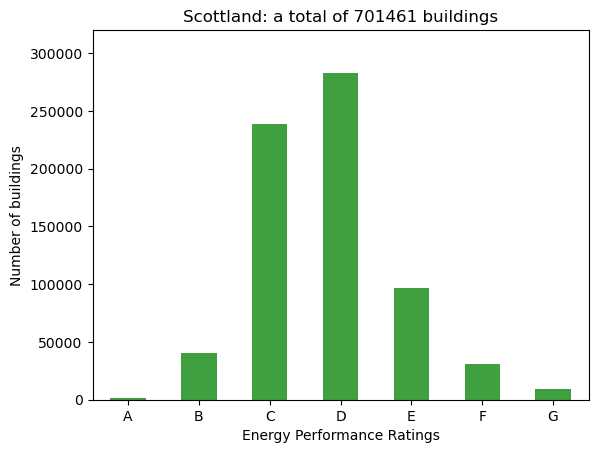
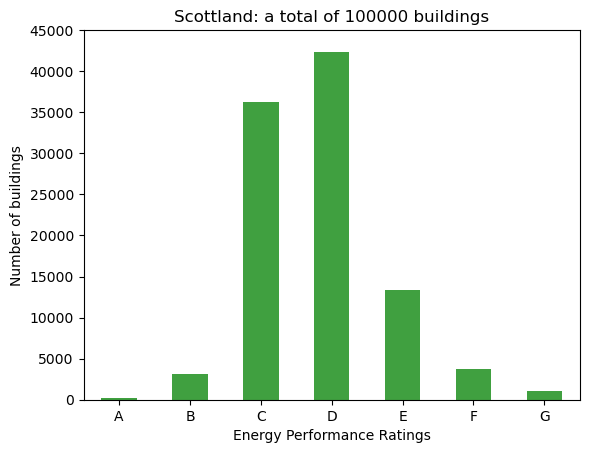
correction scottland frequency plot

diff --git a/src/at/uibk/epc/frequency/epc_frequency_scottland.py b/src/at/uibk/epc/frequency/epc_frequency_scottland.py
@@ -2,10 +2,11 @@ from frequency import getRawData
 from pymongo import MongoClient
 from frequency import epcFrequencyForCountry
 
-connectionString = 'mongodb+srv://epcuser3:pw13epc@cluster0-aivtv.mongodb.net/test?retryWrites=true&w=majority'
+#connectionString = 'mongodb+srv://epcuser3:pw13epc@cluster0-aivtv.mongodb.net/test?retryWrites=true&w=majority'
+connectionString = 'mongodb+srv://scott_1:JP3JXGuQQC9fkPiZ@cluster0.licv8.mongodb.net/EPC?retryWrites=true&w=majority'
 
-queryLimit = 701461
-Xlimit = 320000
+queryLimit = 100000
+Xlimit = 45000
 country = 'Scottland'
 
 epcFrequencyForCountry(getRawData(
